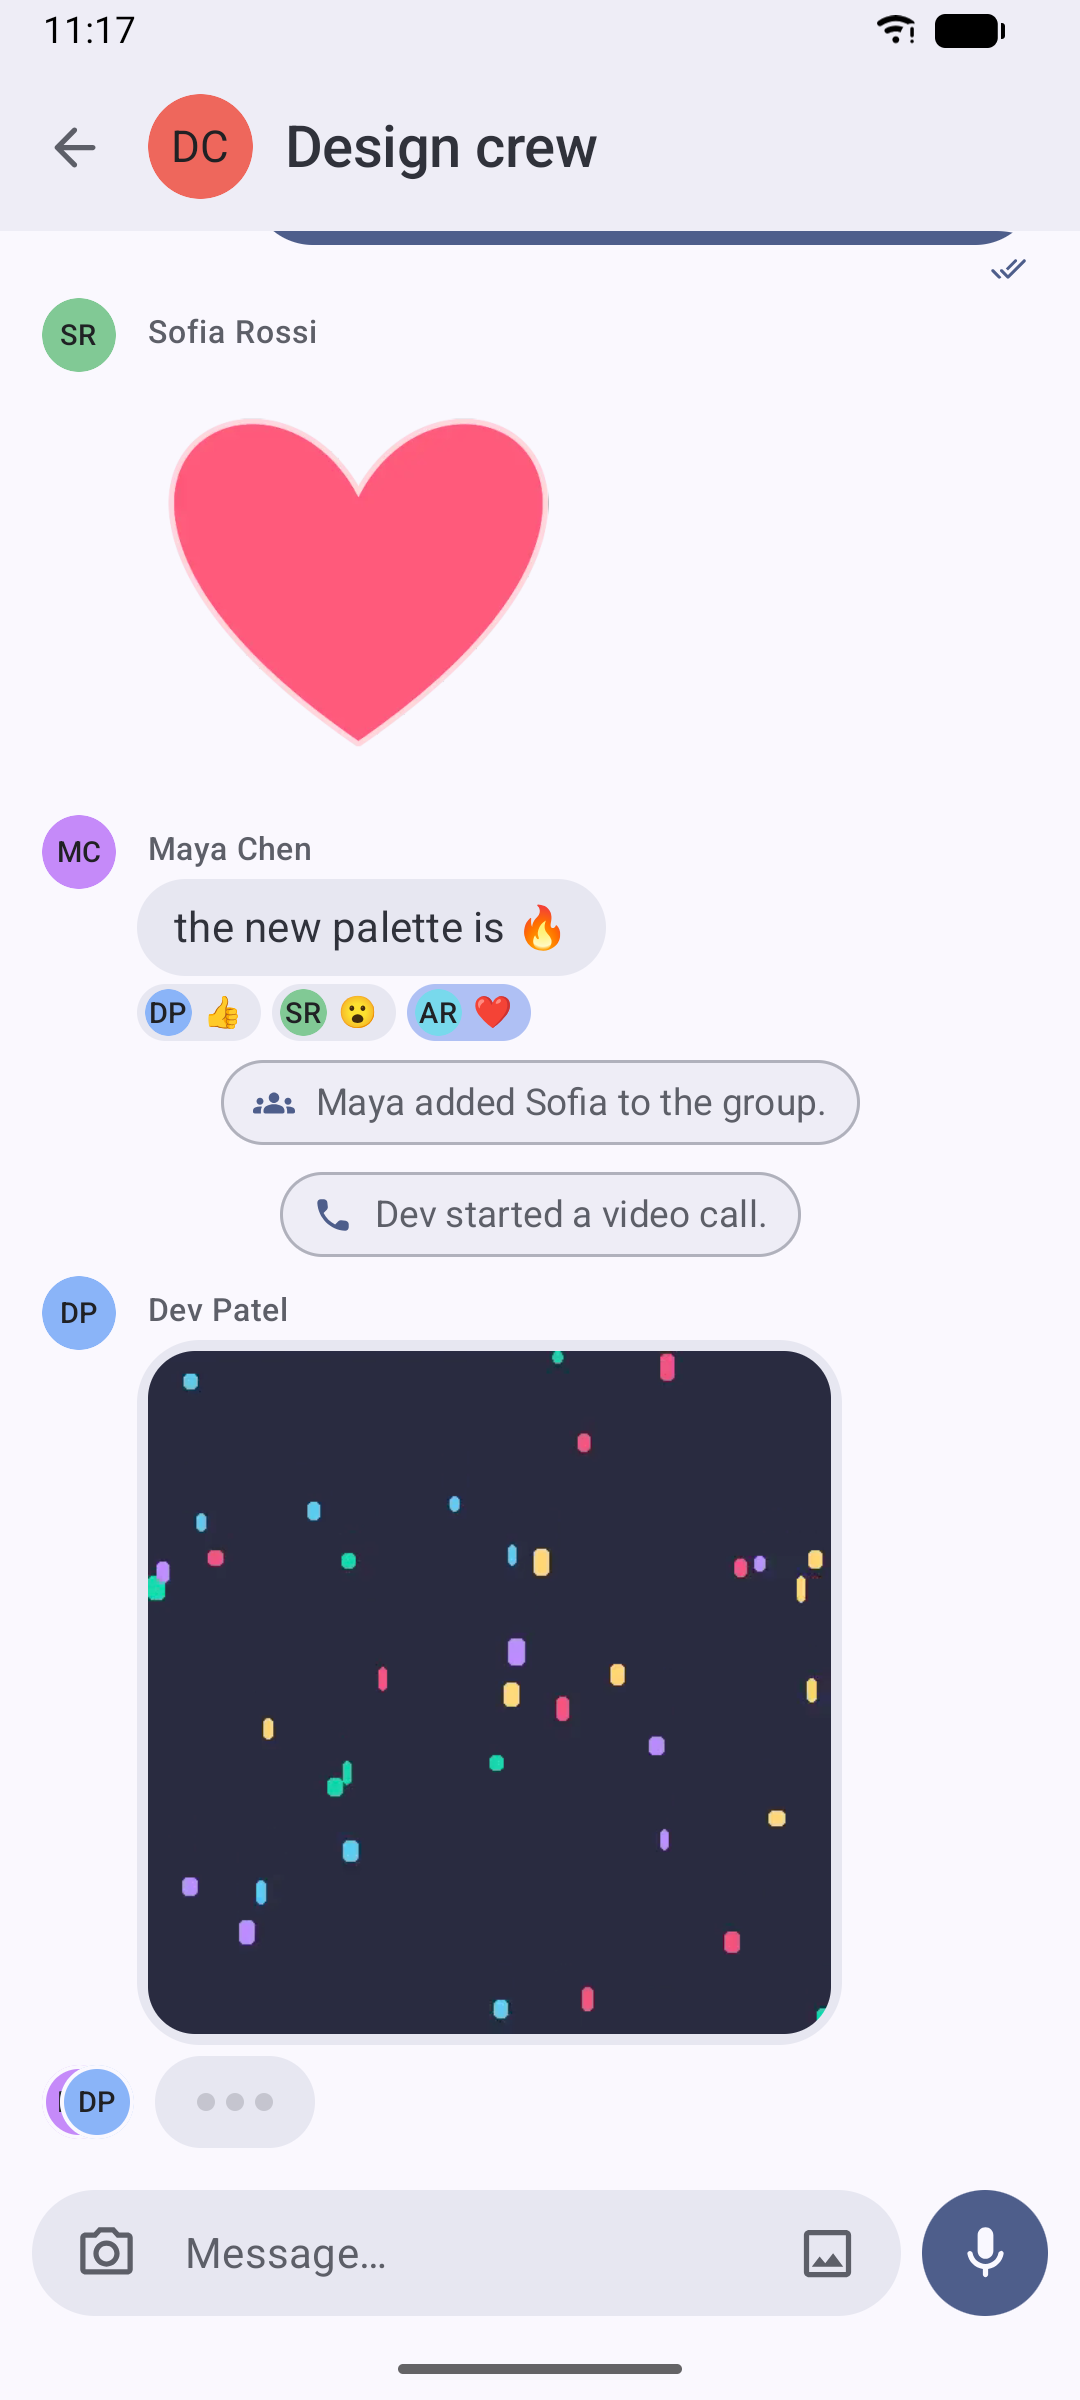
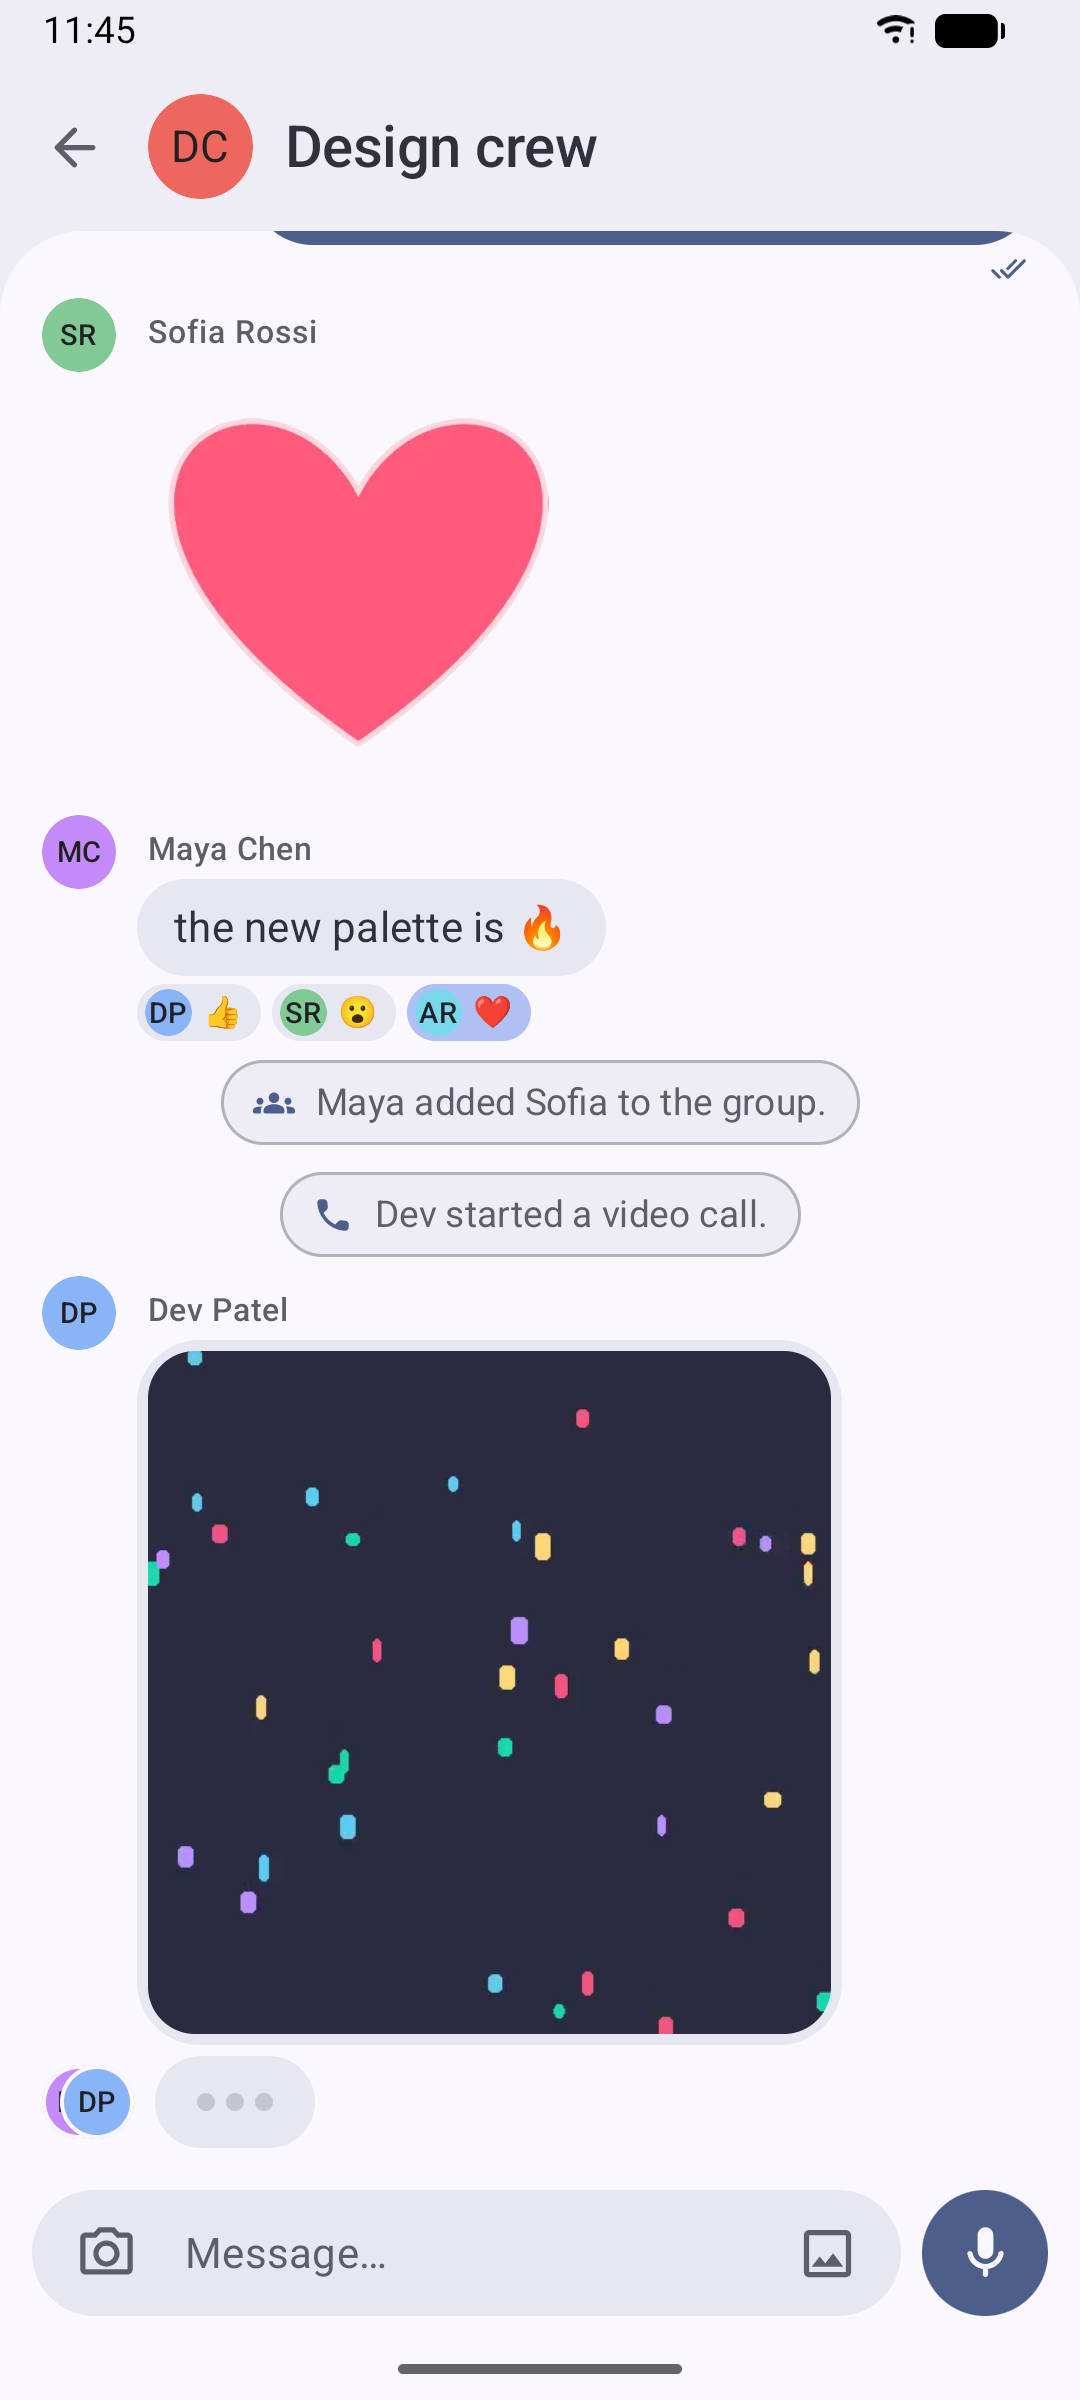
fix(ui): fill header corner gap, put inbox list on surface
The rounded top corners of the content sheet left a sliver of the page
background under the app bar. Give the Scaffold the bar's tone so the
corners read as cut into it, and move the inbox list from
surfaceContainerLow to surface so it matches the chat screen and the
M3 default pairing of a surface list under a tinted bar.

Regenerate the demo screenshots, which all show the junction.

diff --git a/app/src/main/java/com/goldrift/instadm/ui/inbox/InboxScreen.kt b/app/src/main/java/com/goldrift/instadm/ui/inbox/InboxScreen.kt
@@ -120,7 +120,9 @@ fun InboxScreen(
 ) {
     Scaffold(
         modifier = modifier.fillMaxSize(),
-        containerColor = MaterialTheme.colorScheme.background,
+        // Matches the TopAppBar so the sheet's rounded top corners read as
+        // cut into the bar instead of showing a background-colored sliver.
+        containerColor = MaterialTheme.colorScheme.surfaceContainer,
         contentWindowInsets = WindowInsets(0, 0, 0, 0),
         topBar = {
             TopAppBar(
@@ -168,7 +170,7 @@ fun InboxScreen(
                 .fillMaxSize()
                 .padding(innerPadding),
             shape = listTopShape,
-            color = MaterialTheme.colorScheme.surfaceContainerLow,
+            color = MaterialTheme.colorScheme.surface,
         ) {
             PullToRefreshBox(
                 isRefreshing = status == InboxStatus.Loading && conversations.isNotEmpty(),

diff --git a/app/src/main/java/com/goldrift/instadm/ui/settings/SettingsScreen.kt b/app/src/main/java/com/goldrift/instadm/ui/settings/SettingsScreen.kt
@@ -149,7 +149,7 @@ fun SettingsScreen(
 
     Scaffold(
         modifier = modifier.fillMaxSize(),
-        containerColor = MaterialTheme.colorScheme.background,
+        containerColor = MaterialTheme.colorScheme.surfaceContainer,
         contentWindowInsets = WindowInsets(0, 0, 0, 0),
         topBar = {
             TopAppBar(

diff --git a/app/src/main/java/com/goldrift/instadm/ui/chat/ChatScreen.kt b/app/src/main/java/com/goldrift/instadm/ui/chat/ChatScreen.kt
@@ -681,7 +681,7 @@ fun ChatScreen(
     )
     Scaffold(
         modifier = modifier.fillMaxSize(),
-        containerColor = MaterialTheme.colorScheme.background,
+        containerColor = MaterialTheme.colorScheme.surfaceContainer,
         topBar = {
             ChatTopSection(
                 contact = conversation.contact,
